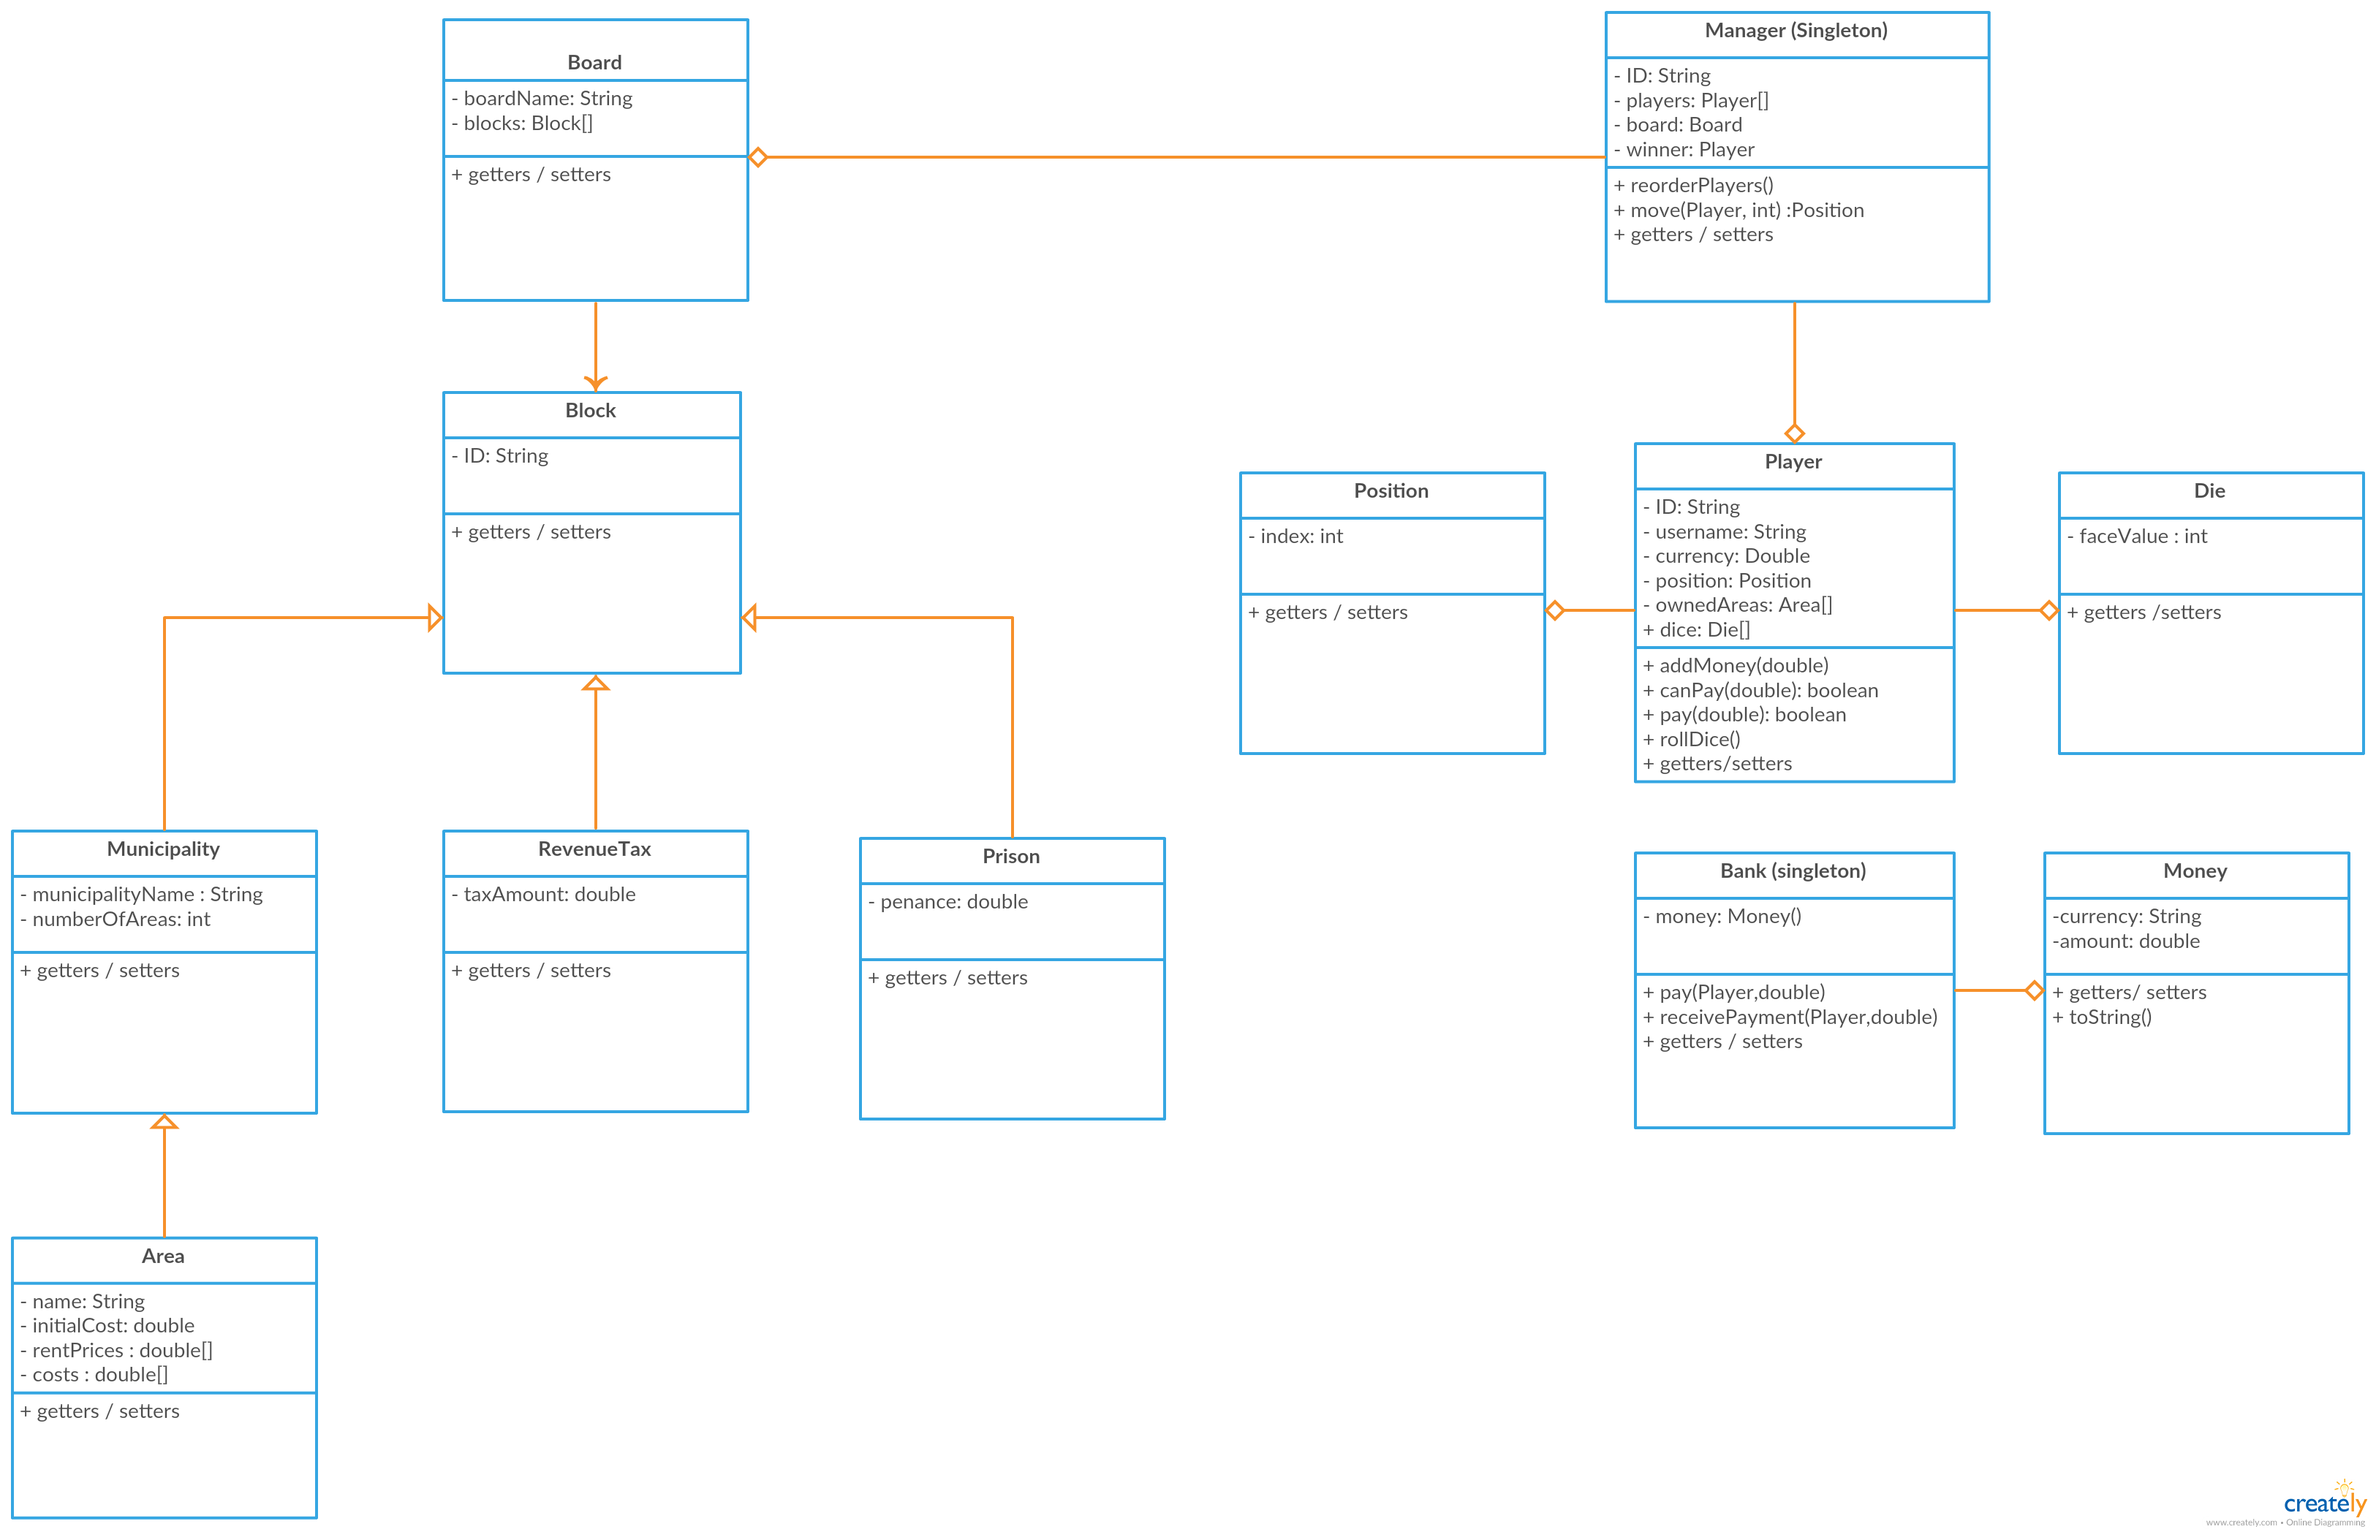
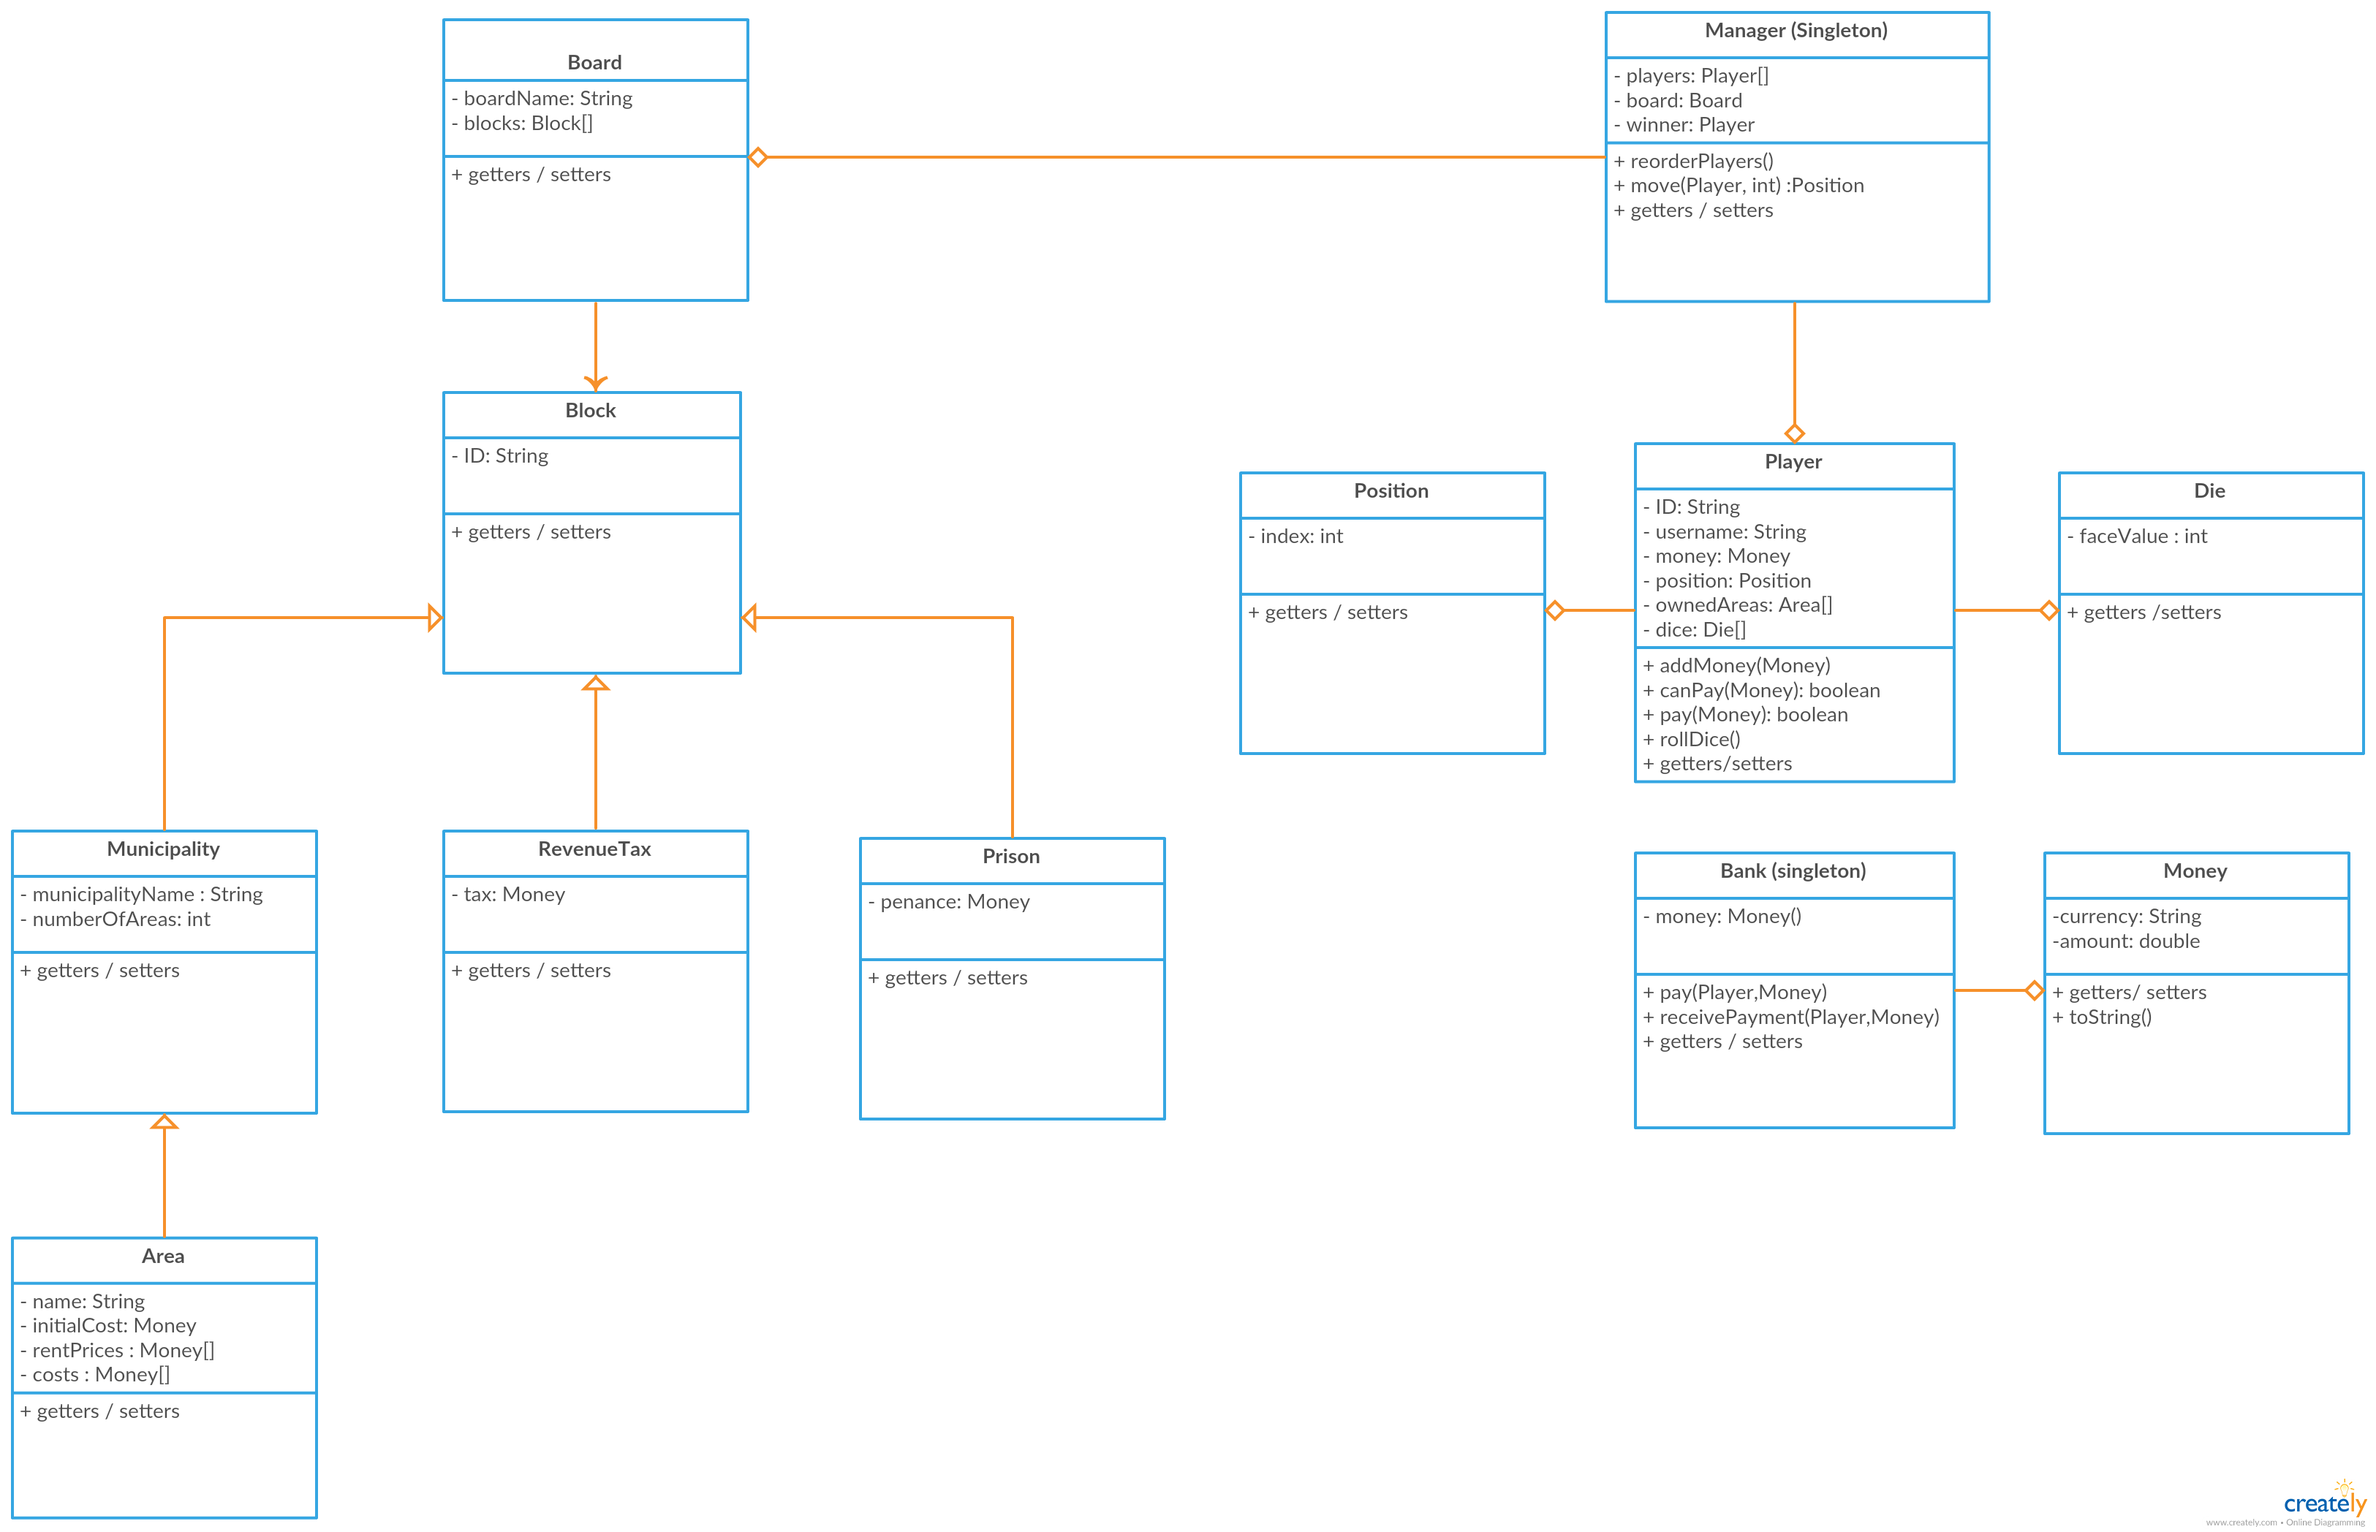
MP-20 MP-28 MP-29 Fixed

diff --git a/Development/src/com/monopoly/Bank.java b/Development/src/com/monopoly/Bank.java
@@ -1,35 +1,31 @@
 package com.monopoly;
 
+// Singleton design pattern. Since we would like to assure bank instance will be created only once.
 public class Bank {
 
     // MARK: Properties
-    private double currency = 0;
-    // private Card[] cards;
+    private static Bank sharedBank;
+    private Money money;
 
     // MARK: Constructors
-    public Bank(double currency){
-        this.currency = currency;
-    }
+    protected Bank() { }
 
-    public Bank() { };
+    public static Bank getInstance() {
+
+        if (sharedBank == null) {
+            sharedBank = new Bank();
+        }
+        return sharedBank;
+    }
 
     // MARK: Encapsulation
-    public double getCurrency() {
-        return this.currency;
+    public double getMoney() {
+        return this.money;
     }
 
-    public void setCurrency(double currency) {
-        this.currency = currency;
+    public void setMoney(Money money) {
+        this.money = money;
     }
-    /*
-    public Card[] getCards() {
-        return this.cards;
-    }
-
-    public void setCards(Card[] cards) {
-        this.cards = cards;
-    }
-    */
 
     // MARK: Utility Methods
     public boolean pay(Player player,double amount) {

diff --git a/Development/src/com/monopoly/Money.java b/Development/src/com/monopoly/Money.java
@@ -1,0 +1,30 @@
+package com.monopoly;
+
+public class Money {
+
+    // MARK: Properties
+    private String currency;
+    private double amount;
+
+    // MARK: Constructors
+    public Money(String currency, double amount){
+        this.currency = currency;
+        this.amount = amount;
+    }
+
+    // MARK: Encapsulation
+    public String getCurrency() { return this.currency; }
+
+    public void setCurrency(String currency) { this.currency = currency; }
+
+    public double getAmount() {
+        return this.amount;
+    }
+
+    public void setAmount(double value) {
+        this.amount = value;
+    }
+
+    // MARK: Utility Methods
+
+}

diff --git a/Development/src/com/monopoly/Die.java b/Development/src/com/monopoly/Die.java
@@ -1,0 +1,24 @@
+package com.monopoly;
+
+public class Die {
+
+    // MARK: Properties
+    private int faceValue;
+
+    // MARK: Constructors
+    public Die(int value){
+        this.faceValue = value;
+    }
+
+    // MARK: Encapsulation
+    public double getFaceValue() {
+        return this.faceValue;
+    }
+
+    public void setFaceValue(int value) {
+        this.faceValue = value;
+    }
+
+    // MARK: Utility Methods
+
+}
